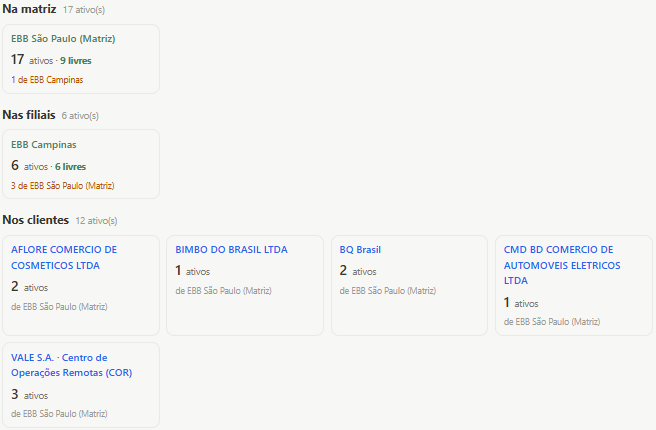
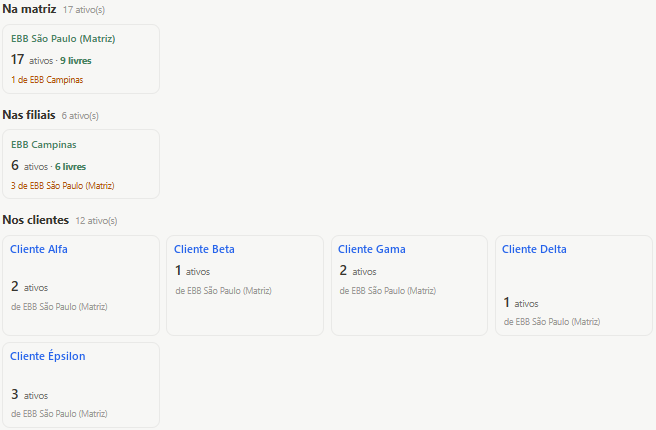
Ciclo: revisão de textos e capturas sem nomes de empresas reais (ainda não publicada)

diff --git a/ciclo/index.html b/ciclo/index.html
@@ -4,7 +4,7 @@
   <meta charset="utf-8">
   <meta name="viewport" content="width=device-width, initial-scale=1">
   <meta name="theme-color" content="#f5f5f0">
-  <meta name="description" content="WISEIA Ciclo: gestão para gerenciadoras de resíduos e serviços ambientais. Conecte contratos, ordens de serviço, viagens e evidências da execução em campo.">
+  <meta name="description" content="WISEIA Ciclo: gestão para gerenciadoras de resíduos e serviços ambientais. Conecte propostas, ordens de serviço, viagens e evidências da execução em campo.">
   <title>WISEIA Ciclo — Opere, comprove e prepare seu faturamento</title>
   <link rel="canonical" href="https://wiseia.com.br/ciclo/">
   <link rel="icon" href="../favicon.ico" sizes="any">
@@ -15,13 +15,13 @@
   <meta property="og:site_name" content="WISEIA">
   <meta property="og:url" content="https://wiseia.com.br/ciclo/">
   <meta property="og:title" content="WISEIA Ciclo — Chega de ativos perdidos e serviços sem cobrança">
-  <meta property="og:description" content="Gestão para gerenciadoras de resíduos e serviços ambientais: contratos, ordens de serviço, viagens, ativos e evidências da execução para apoiar o faturamento.">
+  <meta property="og:description" content="Gestão para gerenciadoras de resíduos e serviços ambientais: propostas, ordens de serviço, viagens, ativos e evidências da execução para apoiar o faturamento.">
   <meta property="og:image" content="https://wiseia.com.br/ciclo/assets/compartilhar-ciclo.jpg">
   <meta property="og:image:width" content="1200">
   <meta property="og:image:height" content="630">
   <meta property="og:image:alt" content="WISEIA Ciclo: chega de ativos perdidos e serviços sem cobrança.">
   <meta name="twitter:card" content="summary_large_image">
-  <link rel="stylesheet" href="ciclo.css?v=5">
+  <link rel="stylesheet" href="ciclo.css?v=6">
 </head>
 <body>
   <a class="skip" href="#conteudo">Pular para o conteúdo</a>
@@ -40,10 +40,10 @@
         <p class="eyebrow"><span aria-hidden="true"></span>PARA GERENCIADORAS DE RESÍDUOS E SERVIÇOS AMBIENTAIS</p>
         <h1 id="hero-title">Chega de ativos perdidos e serviços sem cobrança.</h1>
         <p class="hero-complement">Rastreie, comprove e cobre pelo que executou.</p>
-        <p class="lead">Conecte contratos, ordens de serviço e viagens. Registre a execução em campo, prepare os MTRs e reúna quantidades, evidências e valores para apoiar seu faturamento.</p>
+        <p class="lead">Conecte propostas, ordens de serviço e viagens. Registre a execução em campo, prepare os MTRs e reúna quantidades, evidências e valores para apoiar seu faturamento.</p>
         <div class="actions">
           <a class="button button-primary" href="#contato">Solicitar demonstração <span aria-hidden="true">↗</span></a>
-          <a class="panel-link" href="../assets/raw_files/wiseia-ciclo-painel-operacional.png" data-open-panel aria-haspopup="dialog" aria-controls="panel-dialog">Ampliar painel <span aria-hidden="true">↗</span></a>
+          <a class="panel-link" href="../assets/raw_files/wiseia-ciclo-painel-operacional.png?v=2" data-open-panel aria-haspopup="dialog" aria-controls="panel-dialog">Ampliar painel <span aria-hidden="true">↗</span></a>
         </div>
         <p class="hermes">Com o <strong>Agente</strong>, sua equipe consulta informações e prepara ações pelo Telegram, com confirmação antes de gravar e acesso conforme suas permissões.</p>
       </div>
@@ -262,7 +262,7 @@
         <aside class="hermes-card" aria-labelledby="hermes-title">
           <div class="hermes-head"><h2 id="hermes-title"><span class="hermes-icon" aria-hidden="true">↗</span> Agente · Telegram</h2><span class="example">Exemplo ilustrativo</span></div>
           <div class="conversation"><p class="user-message"><span>Usuário</span>Abra uma OS de troca de caçamba no Cliente Alfa para amanhã de manhã.</p>
-          <div class="response-slot"><span class="preparing" aria-hidden="true"><i></i><i></i><i></i> Preparando prévia</span><p class="hermes-message"><span>Agente</span>Prévia: troca de caçamba no Cliente Alfa, amanhã pela manhã, vinculada ao contrato vigente. Posso confirmar a abertura?</p></div></div>
+          <div class="response-slot"><span class="preparing" aria-hidden="true"><i></i><i></i><i></i> Preparando prévia</span><p class="hermes-message"><span>Agente</span>Prévia: troca de caçamba no Cliente Alfa, amanhã pela manhã, vinculada à proposta aprovada. Posso confirmar a abertura?</p></div></div>
           <p class="confirmation"><span aria-hidden="true">◷</span> Aguardando confirmação</p>
         </aside>
         </div>
@@ -273,7 +273,7 @@
         <div class="cycle-copy" data-cx-reveal>
           <p class="eyebrow"><span aria-hidden="true"></span>O CICLO COMPLETO</p>
           <h2 id="cycle-title">Da proposta ao faturamento, <span>sem perder nada no caminho.</span></h2>
-          <p class="cycle-description">Cada etapa nasce da anterior. O contrato vem da proposta aprovada, a ordem de serviço vem do contrato, a viagem leva a OS a campo e a execução registrada vira informação para faturar.</p>
+          <p class="cycle-description">Cada etapa nasce da anterior. A proposta aprovada vira ordem de serviço, a ordem de serviço vira viagem a campo, e a execução registrada vira informação para faturar.</p>
         </div>
         <div class="cycle-visual" data-cycle data-cx-reveal>
           <svg class="cycle-ring" viewBox="0 0 100 100" aria-hidden="true"><circle cx="50" cy="50" r="40"/></svg>
@@ -281,11 +281,11 @@
           <div class="cycle-center" aria-hidden="true"><strong>Ciclo</strong><span>um registro puxa o próximo</span></div>
           <ol class="cycle-steps" aria-label="Etapas do Ciclo">
             <li style="--i:0"><span>01</span>Comercial</li>
-            <li style="--i:1"><span>02</span>Contrato</li>
-            <li style="--i:2"><span>03</span>Ordem de serviço</li>
-            <li style="--i:3"><span>04</span>Viagem</li>
-            <li style="--i:4"><span>05</span>Execução em campo</li>
-            <li style="--i:5"><span>06</span>Pesagem e MTR</li>
+            <li style="--i:1"><span>02</span>Ordem de serviço</li>
+            <li style="--i:2"><span>03</span>Viagem</li>
+            <li style="--i:3"><span>04</span>Execução em campo</li>
+            <li style="--i:4"><span>05</span>Recebimento na base</li>
+            <li style="--i:5"><span>06</span>MTR</li>
             <li style="--i:6"><span>07</span>Evidências</li>
             <li style="--i:7"><span>08</span>Faturamento</li>
           </ol>
@@ -307,22 +307,22 @@
             <p class="eyebrow"><span aria-hidden="true"></span>CONTROLE DA OPERAÇÃO</p>
             <h2 id="operation-title">Seus ativos, seu histórico e os serviços executados. Tudo em um só painel.</h2>
           </div>
-          <p class="operation-description">Da caçamba instalada no cliente ao serviço concluído, conecte equipamentos, contratos, ordens de serviço e viagens em uma operação com histórico e evidências.</p>
+          <p class="operation-description">Da caçamba instalada no cliente ao serviço concluído, conecte equipamentos, propostas, ordens de serviço e viagens em uma operação com histórico e evidências.</p>
         </header>
         <div class="operation-columns">
           <figure class="assets-view" data-operation-reveal>
             <div class="assets-window">
               <figcaption><span class="live-dot" aria-hidden="true"></span>Localização dos ativos · Ambiente de demonstração</figcaption>
-              <a class="assets-capture" href="../assets/raw_files/wiseia-ciclo-localizacao-ativos.png" data-open-screen aria-haspopup="dialog" aria-controls="assets-dialog" aria-label="Ampliar captura completa de localização dos ativos">
-                <img src="assets/localizacao-ativos-grupos.png" alt="Recorte real dos agrupamentos de equipamentos: na matriz EBB São Paulo, na filial EBB Campinas e nos clientes AFLORE, BIMBO DO BRASIL, BQ Brasil, CMD e VALE." width="656" height="430" loading="lazy">
+              <a class="assets-capture" href="../assets/raw_files/wiseia-ciclo-localizacao-ativos.png?v=2" data-open-screen aria-haspopup="dialog" aria-controls="assets-dialog" aria-label="Ampliar captura completa de localização dos ativos">
+                <img src="assets/localizacao-ativos-grupos.png?v=2" alt="Recorte dos agrupamentos de equipamentos no ambiente de demonstração: na matriz, na filial e em cinco clientes." width="656" height="430" loading="lazy">
               </a>
-              <div class="assets-toolbar"><span>Conforme o último movimento registrado.</span><a href="../assets/raw_files/wiseia-ciclo-localizacao-ativos.png" data-open-screen aria-haspopup="dialog" aria-controls="assets-dialog">Ampliar tela <span aria-hidden="true">↗</span></a></div>
+              <div class="assets-toolbar"><span>Conforme o último movimento registrado.</span><a href="../assets/raw_files/wiseia-ciclo-localizacao-ativos.png?v=2" data-open-screen aria-haspopup="dialog" aria-controls="assets-dialog">Ampliar tela <span aria-hidden="true">↗</span></a></div>
             </div>
           </figure>
           <div class="operation-details">
             <ol class="operation-blocks">
               <li data-operation-reveal><span class="operation-number" aria-hidden="true">01</span><div><h3>Ativos com localização e histórico</h3><p>Consulte quais equipamentos estão na base ou nos clientes, a qual filial pertencem e sua situação conforme o último movimento registrado.</p></div></li>
-              <li data-operation-reveal><span class="operation-number" aria-hidden="true">02</span><div><h3>Serviço vinculado ao contrato</h3><p>Cada ordem de serviço nasce de um contrato e reúne o escopo e os itens da operação. Na programação, as OS são organizadas em viagens, com veículo e motorista.</p></div></li>
+              <li data-operation-reveal><span class="operation-number" aria-hidden="true">02</span><div><h3>Serviço vinculado à proposta</h3><p>Cada ordem de serviço nasce da proposta aprovada e reúne o escopo e os itens da operação. Na programação, as OS são organizadas em viagens, com veículo e motorista.</p></div></li>
               <li data-operation-reveal><span class="operation-number" aria-hidden="true">03</span><div><h3>Execução com evidências para faturar</h3><p>O app de campo registra as etapas da execução, fotos e ocorrências. O peso real registrado na recepção encerra a viagem e a OS, reunindo quantidades, documentos e valores para apoiar a medição e o faturamento.</p></div></li>
             </ol>
           </div>
@@ -339,12 +339,12 @@
       <div class="wrap app-layout">
         <div class="app-copy" data-cx-reveal>
           <p class="eyebrow"><span aria-hidden="true"></span>APP DE CAMPO DO MOTORISTA</p>
-          <h2 id="app-title">O motorista segue o roteiro. <span>O escritório acompanha cada passo.</span></h2>
-          <p class="app-description">No celular, o motorista vê os serviços da viagem, avança etapa por etapa e registra o que aconteceu. Cada confirmação chega ao sistema com horário.</p>
+          <h2 id="app-title">O motorista segue o roteiro. <span>Etapa por etapa, no celular.</span></h2>
+          <p class="app-description">No celular, o motorista vê os serviços da viagem, avança etapa por etapa e registra o que aconteceu.</p>
           <ul class="app-points">
             <li>Roteiro passo a passo, da saída até a volta para a base.</li>
-            <li>Check-in no cliente, chegada com GPS e confirmação de entrega.</li>
-            <li>Foto do hodômetro e km rodados ao encerrar a viagem.</li>
+            <li>Check-in no cliente, chegada e confirmação de entrega.</li>
+            <li>Km rodados ao encerrar a viagem, com campo para foto do hodômetro.</li>
             <li>Registro de problemas direto do campo.</li>
             <li>Resumo e prova de cada serviço concluído.</li>
           </ul>
@@ -360,19 +360,19 @@
       <div class="wrap billing-layout">
         <header class="billing-heading" data-cx-reveal>
           <p class="eyebrow"><span aria-hidden="true"></span>DO CAMPO AO FATURAMENTO</p>
-          <h2 id="billing-title">O peso lançado vira crédito. <span>O serviço executado vira cobrança.</span></h2>
-          <p class="billing-description">Quando a caçamba é descarregada na base, o peso lançado entra no estoque e gera o crédito ao cliente, pela proposta aceita ou pela tabela de compra. Valores a pagar e a receber ficam reunidos para o financeiro.</p>
+          <h2 id="billing-title">O peso lançado vira valor. <span>O serviço executado vira cobrança.</span></h2>
+          <p class="billing-description">Quando a caçamba é descarregada na base, o peso lançado entra no estoque e gera o valor do material, quando ele tiver valor, pela proposta aceita ou pela tabela de compra. Valores a pagar e a receber ficam reunidos para o financeiro.</p>
         </header>
         <div class="billing-screens">
           <figure class="browser" data-cx-reveal>
             <div class="browser-bar"><i></i><i></i><i></i><span>Recebimento na base · Ambiente de demonstração</span></div>
-            <a class="browser-shot" href="assets/sistema-recebimento-base.webp" data-open-screen aria-haspopup="dialog" aria-controls="receiving-dialog" aria-label="Ampliar tela de recebimento na base"><img src="assets/sistema-recebimento-base.webp" alt="Tela Recebimento na base: caçamba que chegou aguardando peso e lançamento de 600 kg de INOX 304, gerando crédito de R$ 12.000,00 ao cliente." width="1567" height="740" loading="lazy" decoding="async"></a>
-            <figcaption><span>Peso na base gera o crédito ao cliente.</span><a href="assets/sistema-recebimento-base.webp" data-open-screen aria-haspopup="dialog" aria-controls="receiving-dialog">Ampliar tela <span aria-hidden="true">↗</span></a></figcaption>
+            <a class="browser-shot" href="assets/sistema-recebimento-base.webp" data-open-screen aria-haspopup="dialog" aria-controls="receiving-dialog" aria-label="Ampliar tela de recebimento na base"><img src="assets/sistema-recebimento-base.webp" alt="Tela Recebimento na base: caçamba que chegou aguardando peso e lançamento de 600 kg de INOX 304, gerando o valor do material." width="1567" height="740" loading="lazy" decoding="async"></a>
+            <figcaption><span>Peso na base gera o valor do material.</span><a href="assets/sistema-recebimento-base.webp" data-open-screen aria-haspopup="dialog" aria-controls="receiving-dialog">Ampliar tela <span aria-hidden="true">↗</span></a></figcaption>
           </figure>
           <figure class="browser browser-offset" data-cx-reveal>
             <div class="browser-bar"><i></i><i></i><i></i><span>A pagar e a receber · Ambiente de demonstração</span></div>
-            <a class="browser-shot" href="assets/wiseia-ciclo-apoio-financeiro.png" data-open-screen aria-haspopup="dialog" aria-controls="finance-dialog" aria-label="Ampliar tela de contas a pagar e a receber"><img src="assets/sistema-a-pagar-receber.webp" alt="Tela A pagar e a receber: totais a pagar e a receber e lançamentos por contraparte, material e situação." width="1566" height="600" loading="lazy" decoding="async"></a>
-            <figcaption><span>Valores a pagar e a receber em um só lugar.</span><a href="assets/wiseia-ciclo-apoio-financeiro.png" data-open-screen aria-haspopup="dialog" aria-controls="finance-dialog">Ampliar tela <span aria-hidden="true">↗</span></a></figcaption>
+            <a class="browser-shot" href="assets/wiseia-ciclo-apoio-financeiro.png?v=2" data-open-screen aria-haspopup="dialog" aria-controls="finance-dialog" aria-label="Ampliar tela de contas a pagar e a receber"><img src="assets/sistema-a-pagar-receber.webp?v=2" alt="Tela A pagar e a receber: totais a pagar e a receber e lançamentos por contraparte, material e situação." width="1566" height="600" loading="lazy" decoding="async"></a>
+            <figcaption><span>Valores a pagar e a receber em um só lugar.</span><a href="assets/wiseia-ciclo-apoio-financeiro.png?v=2" data-open-screen aria-haspopup="dialog" aria-controls="finance-dialog">Ampliar tela <span aria-hidden="true">↗</span></a></figcaption>
           </figure>
         </div>
       </div>
@@ -396,9 +396,9 @@
             <div class="agent-chat-heading"><span class="agent-mark" aria-hidden="true">↗</span><div><strong>Agente de IA do Wiseia Ciclo</strong><span>Da solicitação ao registro confirmado.</span></div></div>
             <ol class="agent-messages" aria-label="Conversa ilustrativa com dados fictícios">
               <li class="agent-turn agent-turn-user"><span class="agent-speaker">Usuário</span><p>Abra uma OS de troca de caçamba no Cliente Alfa para amanhã de manhã.</p></li>
-              <li class="agent-response-slot"><span class="agent-thinking" aria-hidden="true"><i></i><i></i><i></i>Preparando prévia</span><div class="agent-turn agent-turn-preview"><span class="agent-speaker">Agente <span class="agent-message-label">Prévia</span></span><p>Preparei a OS de troca para o Cliente Alfa, amanhã pela manhã, vinculada ao contrato vigente. Posso gravar?</p></div></li>
+              <li class="agent-response-slot"><span class="agent-thinking" aria-hidden="true"><i></i><i></i><i></i>Preparando prévia</span><div class="agent-turn agent-turn-preview"><span class="agent-speaker">Agente <span class="agent-message-label">Prévia</span></span><p>Preparei a OS de troca para o Cliente Alfa, amanhã pela manhã, vinculada à proposta aprovada. Posso gravar?</p></div></li>
               <li class="agent-turn agent-turn-user"><span class="agent-speaker">Usuário</span><p>Pode confirmar.</p></li>
-              <li class="agent-response-slot"><span class="agent-thinking" aria-hidden="true"><i></i><i></i><i></i>Registrando após confirmação</span><div class="agent-turn agent-turn-done"><span class="agent-speaker">Agente <span class="agent-message-label">✓ Registro concluído</span></span><p>OS criada e vinculada ao contrato do Cliente Alfa.</p></div></li>
+              <li class="agent-response-slot"><span class="agent-thinking" aria-hidden="true"><i></i><i></i><i></i>Registrando após confirmação</span><div class="agent-turn agent-turn-done"><span class="agent-speaker">Agente <span class="agent-message-label">✓ Registro concluído</span></span><p>OS criada e vinculada à proposta aprovada do Cliente Alfa.</p></div></li>
             </ol>
             <div class="agent-chat-footer"><span>Dados fictícios · Demonstração visual</span><button class="agent-replay" type="button" hidden>Rever exemplo <span aria-hidden="true">↻</span></button></div>
           </div>
@@ -427,7 +427,7 @@
             <li>Fatos, sugestões da IA e pendências separados no relatório.</li>
             <li>Informações para o escritório adiantar a proposta antes da volta do vendedor.</li>
           </ul>
-          <p class="vog-note">Disponível para visitas comerciais. O acompanhamento operacional de contratos está em desenvolvimento.</p>
+          <p class="vog-note">Disponível para visitas comerciais. O acompanhamento operacional está em desenvolvimento.</p>
         </div>
       </div>
     </section>
@@ -435,7 +435,7 @@
       <div class="wrap closing-layout">
         <div class="closing-copy">
           <h2 id="closing-title">Veja o Ciclo na realidade da sua operação.</h2>
-          <p>Converse com a Wiseia e conheça como conectar contratos, ativos e serviços executados às informações para faturar.</p>
+          <p>Converse com a Wiseia e conheça como conectar propostas, ativos e serviços executados às informações para faturar.</p>
         </div>
         <form class="cx-form" id="contato" data-contact-form data-key="c107f0f9-f183-4b1e-8f8e-6a01b3426666" novalidate>
           <div class="cx-form-row">
@@ -470,7 +470,7 @@
       <button type="button" class="dialog-close" autofocus>Fechar <span aria-hidden="true">×</span></button>
     </div>
     <div class="panel-scroll" tabindex="0" role="region" aria-label="Captura completa do painel operacional. Role para explorar a imagem.">
-      <img src="../assets/raw_files/wiseia-ciclo-painel-operacional.png" alt="Captura completa do painel operacional do Ciclo no ambiente de demonstração." width="1827" height="946">
+      <img src="../assets/raw_files/wiseia-ciclo-painel-operacional.png?v=2" alt="Captura completa do painel operacional do Ciclo no ambiente de demonstração." width="1827" height="946">
     </div>
   </dialog>
   <dialog id="assets-dialog" aria-labelledby="assets-title">
@@ -479,7 +479,7 @@
       <button type="button" class="dialog-close" autofocus>Fechar <span aria-hidden="true">×</span></button>
     </div>
     <div class="panel-scroll" tabindex="0" role="region" aria-label="Captura completa de localização dos ativos. Role para explorar a imagem.">
-      <img src="../assets/raw_files/wiseia-ciclo-localizacao-ativos.png" alt="Tela completa de localização dos ativos do Ciclo, com agrupamentos por matriz, filial e cliente, conforme o último movimento registrado." width="1402" height="942">
+      <img src="../assets/raw_files/wiseia-ciclo-localizacao-ativos.png?v=2" alt="Tela completa de localização dos ativos do Ciclo, com agrupamentos por matriz, filial e cliente, conforme o último movimento registrado." width="1402" height="942">
     </div>
   </dialog>
   <dialog id="vog-dialog" aria-labelledby="vog-dialog-title">
@@ -497,7 +497,7 @@
       <button type="button" class="dialog-close" autofocus>Fechar <span aria-hidden="true">×</span></button>
     </div>
     <div class="panel-scroll" tabindex="0" role="region" aria-label="Tela completa de recebimento na base. Role para explorar a imagem.">
-      <img src="assets/sistema-recebimento-base.webp" alt="Tela completa de recebimento na base com lançamento de peso e crédito ao cliente." width="1567" height="740" loading="lazy">
+      <img src="assets/sistema-recebimento-base.webp" alt="Tela completa de recebimento na base com lançamento de peso e valor do material." width="1567" height="740" loading="lazy">
     </div>
   </dialog>
   <dialog id="finance-dialog" aria-labelledby="finance-dialog-title">
@@ -506,11 +506,11 @@
       <button type="button" class="dialog-close" autofocus>Fechar <span aria-hidden="true">×</span></button>
     </div>
     <div class="panel-scroll" tabindex="0" role="region" aria-label="Tela completa de contas a pagar e a receber. Role para explorar a imagem.">
-      <img src="assets/wiseia-ciclo-apoio-financeiro.png" alt="Tela completa de contas a pagar e a receber com totais e lançamentos." width="1766" height="938" loading="lazy">
+      <img src="assets/wiseia-ciclo-apoio-financeiro.png?v=2" alt="Tela completa de contas a pagar e a receber com totais e lançamentos." width="1766" height="938" loading="lazy">
     </div>
   </dialog>
-  <script src="ciclo.js?v=5" defer></script>
-  <script src="ciclo-extra.js?v=5" defer></script>
+  <script src="ciclo.js?v=6" defer></script>
+  <script src="ciclo-extra.js?v=6" defer></script>
 <!-- Cloudflare Web Analytics --><script type='module' src='https://static.cloudflareinsights.com/beacon.min.js' data-cf-beacon='{"token": "6eb1d3464fc44dba87d9fbd7f056f14d"}'></script><!-- End Cloudflare Web Analytics -->
 </body>
 </html>
